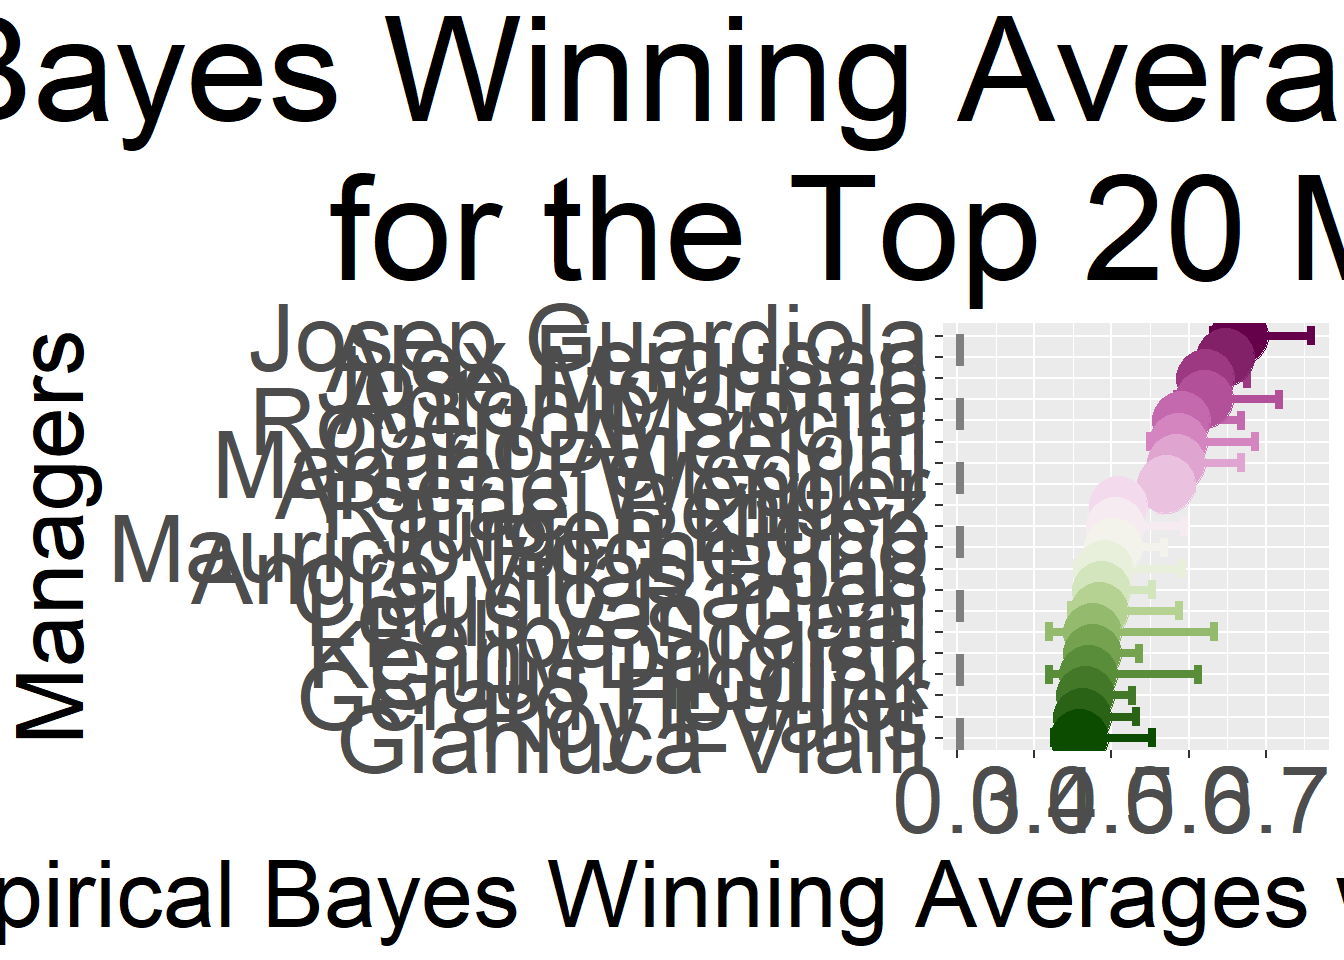
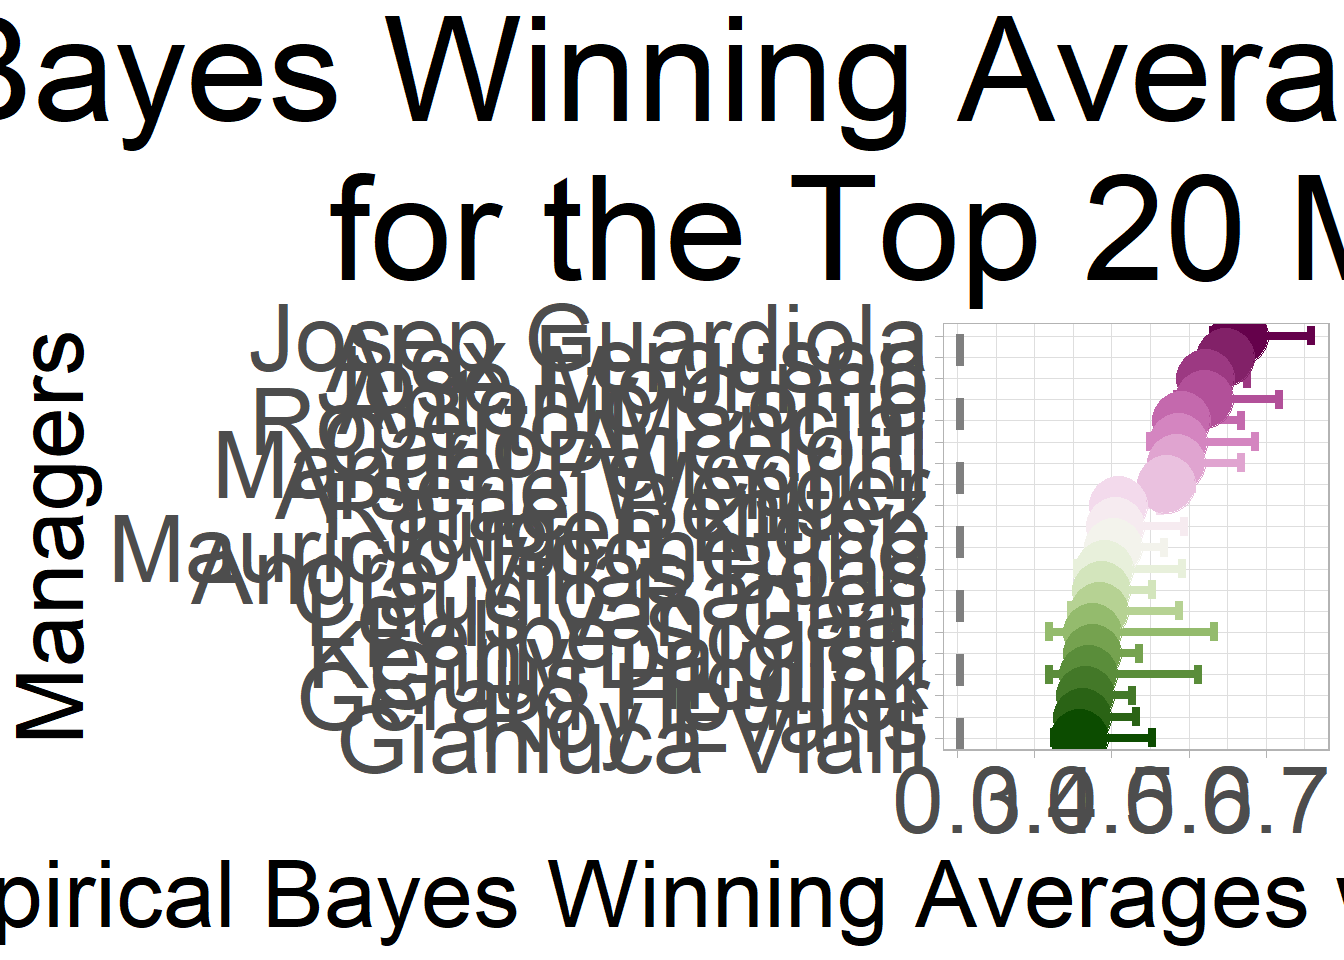
theme for ci

diff --git a/content/blog/English-Premier-League-Ranking-Series/03-Ranking-of-Managers-Using-Empirical-Bayes/Empirical-Bayes-Estimation.md b/content/blog/English-Premier-League-Ranking-Series/03-Ranking-of-Managers-Using-Empirical-Bayes/Empirical-Bayes-Estimation.md
@@ -819,6 +819,7 @@ epl_man5%>%
        y = "Managers",
        title = "Empirical Bayes Winning Averages and Credible Interval\nfor the Top 20 Managers",
        colour = "Managers")+
+  theme_light() +
   theme(plot.title = element_text(hjust = 0.5, size = 55),
         plot.subtitle = element_text(size = 35),
         axis.title = element_text(size = 35),
